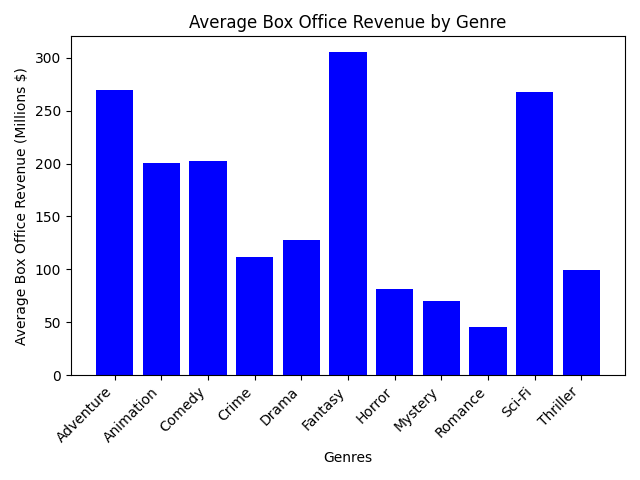
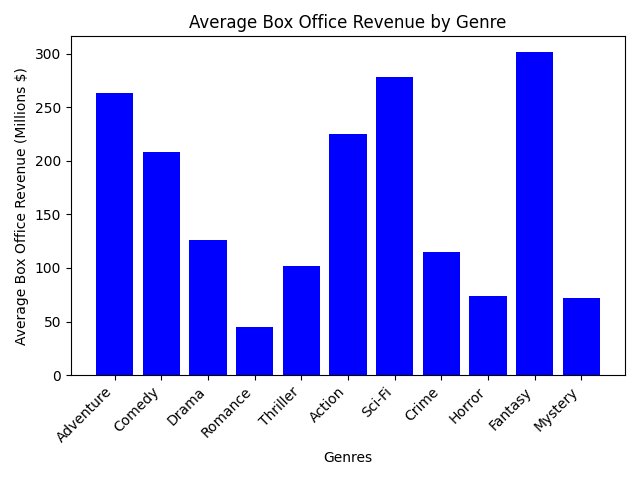
genre id

diff --git a/analisis.py b/analisis.py
@@ -3,15 +3,10 @@ import sqlite3
 import re 
 
 def get_genres(cur):
-    '''Returns a list containing all of the unique gennres in the database'''
-    query = '''SELECT genre FROM Movies'''
+    '''Returns a list containing all of the unique gennre ids in the database'''
+    query = '''SELECT genre_id FROM Genres'''
     result = cur.execute(query).fetchall()
-    genre_set = set()
-    for row in result:
-        if row[0] is not None:
-            genres = [g.strip() for g in row[0].split(',')]
-            genre_set.update(genres)
-    return sorted(genre_set)
+    return [row[0] for row in result]
 
 
 def get_genre_count(genres,cur):
@@ -21,20 +16,24 @@ def get_genre_count(genres,cur):
         query = '''
         SELECT COUNT(id)
         FROM Movies
-        WHERE genre LIKE ?
+        WHERE ',' || genre || ',' LIKE ?
         '''
-        count = cur.execute(query,(f'%{genre}%',)).fetchone()[0]
-        genre_count[genre] = count
-    
+        like_pattern = f'%,{genre},%'
+        count = cur.execute(query, (like_pattern,)).fetchone()[0]
+        query = '''SELECT genre FROM Genres WHERE genre_id == ?'''
+        genre_string =  cur.execute(query, (genre,)).fetchone()[0]
+        genre_count[genre_string] = count
     return genre_count
 
 
-def get_significant_genres(genre_count):
+def get_significant_genres(genre_count,cur):
     '''Returns a list only containign the significant genres'''
     genres = []
     for key,value in genre_count.items():
         if value > 10:
-            genres.append(key)
+            query = '''SELECT genre_id FROM Genres WHERE genre == ?'''
+            genre_int =  cur.execute(query, (key,)).fetchone()[0]
+            genres.append(genre_int)
     return genres
 
 
@@ -46,10 +45,12 @@ def get_average_rating(genres,cur):
         SELECT AVG(p.rating)
         FROM Movies m 
         JOIN PREFORMANCE p ON m.id = p.movie_id
-        WHERE m.genre LIKE ? AND p.rating != -1
+        WHERE ',' || m.genre || ',' LIKE ? AND p.rating != -1
         '''
-        avg_rating = cur.execute(query,(f'%{genre}%',)).fetchone()[0]
-        genre_average[genre] = round(avg_rating, 2) if avg_rating is not None else None
+        avg_rating = cur.execute(query,(f'%,{genre},%',)).fetchone()[0]
+        query = '''SELECT genre FROM Genres WHERE genre_id == ?'''
+        genre_string =  cur.execute(query, (genre,)).fetchone()[0]
+        genre_average[genre_string] = round(avg_rating, 2) if avg_rating is not None else None
 
     return genre_average
 
@@ -62,10 +63,12 @@ def get_average_boxrevenue(genres,cur):
         SELECT AVG(p.box_office)
         FROM Movies m 
         JOIN PREFORMANCE p ON m.id = p.movie_id
-        WHERE m.genre LIKE ? AND p.box_office != -1
+        WHERE ',' || m.genre || ',' LIKE ? AND p.box_office != -1
         '''
-        avg_rating = cur.execute(query,(f'%{genre}%',)).fetchone()[0]
-        genre_boxrevenue[genre] = round(avg_rating, 2) if avg_rating is not None else None
+        avg_rating = cur.execute(query,(f'%,{genre},%',)).fetchone()[0]
+        query = '''SELECT genre FROM Genres WHERE genre_id == ?'''
+        genre_string =  cur.execute(query, (genre,)).fetchone()[0]
+        genre_boxrevenue[genre_string] = round(avg_rating, 2) if avg_rating is not None else None
 
     return genre_boxrevenue
 
@@ -78,26 +81,30 @@ def get_average_ratio(genres,cur):
         SELECT AVG(CAST(p.awards AS FLOAT) / NULLIF(p.nominations, 0)) AS avg_award_nom_ratio
         FROM Movies m
         JOIN Preformance p ON m.id = p.movie_id
-        WHERE m.genre LIKE ?
+        WHERE ',' || m.genre || ',' LIKE ?
         AND p.awards != -1
         AND p.nominations != 1;
         '''
-        ratio = cur.execute(query,(f'%{genre}%',)).fetchone()[0]
-        genre_ratio[genre] = round(ratio, 2) if ratio is not None else None
+        ratio = cur.execute(query,(f'%,{genre},%',)).fetchone()[0]
+        query = '''SELECT genre FROM Genres WHERE genre_id == ?'''
+        genre_string =  cur.execute(query, (genre,)).fetchone()[0]
+        genre_ratio[genre_string] = round(ratio, 2) if ratio is not None else None
     
     return genre_ratio
 
 
-def write_to_file(genres,genre_rating, genre_count,genre_boxrevenue,genre_ratio):
+def write_to_file(genres,genre_rating, genre_count,genre_boxrevenue,genre_ratio,cur):
     '''Writes the calculations for each genres to a file'''
     with open("genre_information.txt", "w") as f:
         f.write("Genre | Movie Count | Avg Rating | Avg Box Revenue | Avg Award/Nomination Ratio\n")
         for genre in genres:
-            rating = genre_rating.get(genre, "N/A")
-            count = genre_count.get(genre, "N/A")
-            boxrev = genre_boxrevenue.get(genre, "N/A")
-            ratio = genre_ratio.get(genre, "N/A")
-            f.write(f"{genre} | {count}  | {rating} | {boxrev} | {ratio}\n")
+            query = '''SELECT genre FROM Genres WHERE genre_id == ?'''
+            genre_string =  cur.execute(query, (genre,)).fetchone()[0]
+            rating = genre_rating.get(genre_string, "N/A")
+            count = genre_count.get(genre_string, "N/A")
+            boxrev = genre_boxrevenue.get(genre_string, "N/A")
+            ratio = genre_ratio.get(genre_string, "N/A")
+            f.write(f"{genre_string} | {count}  | {rating} | {boxrev} | {ratio}\n")
 
 
 def driver_analisis():
@@ -106,10 +113,10 @@ def driver_analisis():
     cur = conn.cursor()
     genres = get_genres(cur)
     genre_count = get_genre_count(genres,cur)
-    genres = get_significant_genres(genre_count)
+    genres = get_significant_genres(genre_count,cur)
     genre_rating = get_average_rating(genres,cur)
     genre_boxrevenue = get_average_boxrevenue(genres,cur)
     genre_ratio = get_average_ratio(genres,cur)
-    write_to_file(genres,genre_rating,genre_count,genre_boxrevenue,genre_ratio)
+    write_to_file(genres,genre_rating,genre_count,genre_boxrevenue,genre_ratio,cur)
     conn.commit()
     conn.close()

diff --git a/application_driver.py b/application_driver.py
@@ -6,7 +6,7 @@ def main():
     """Main Application Driver"""
     #driver_database()
     driver_analisis()
-    # driver_visualize()
+    driver_visualize()
 
 if __name__ == "__main__":
     main()
